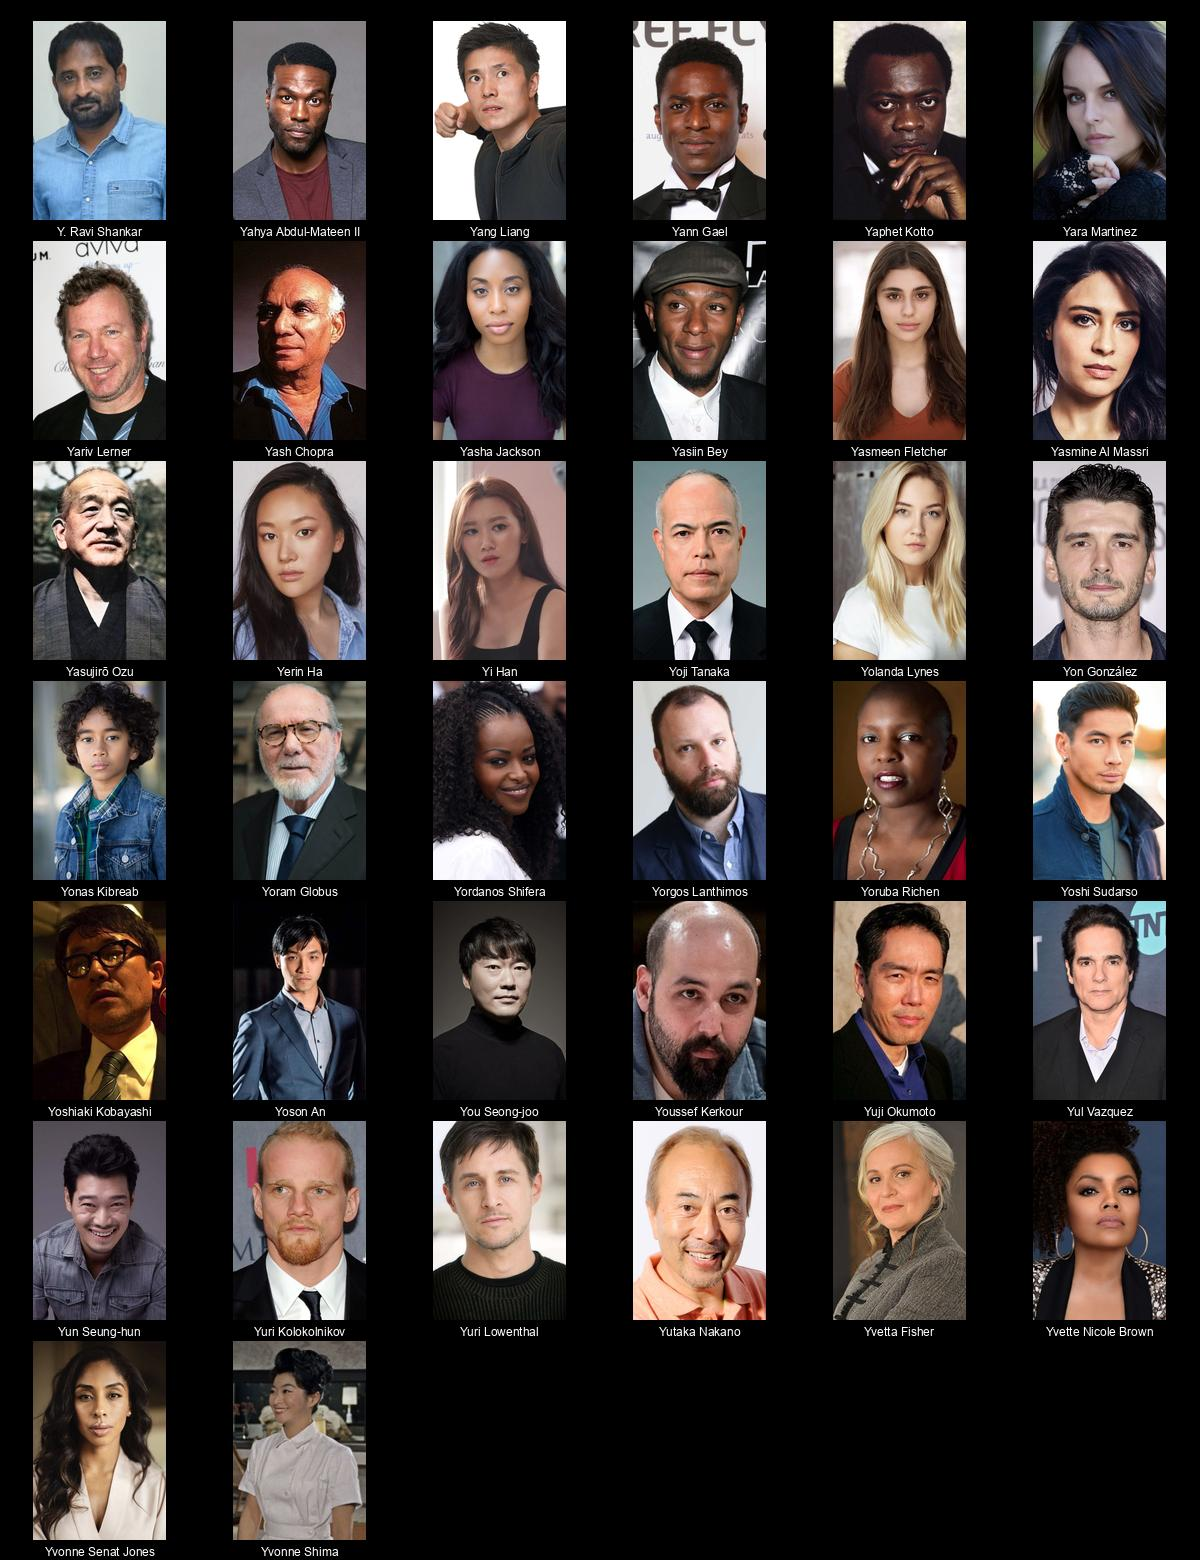
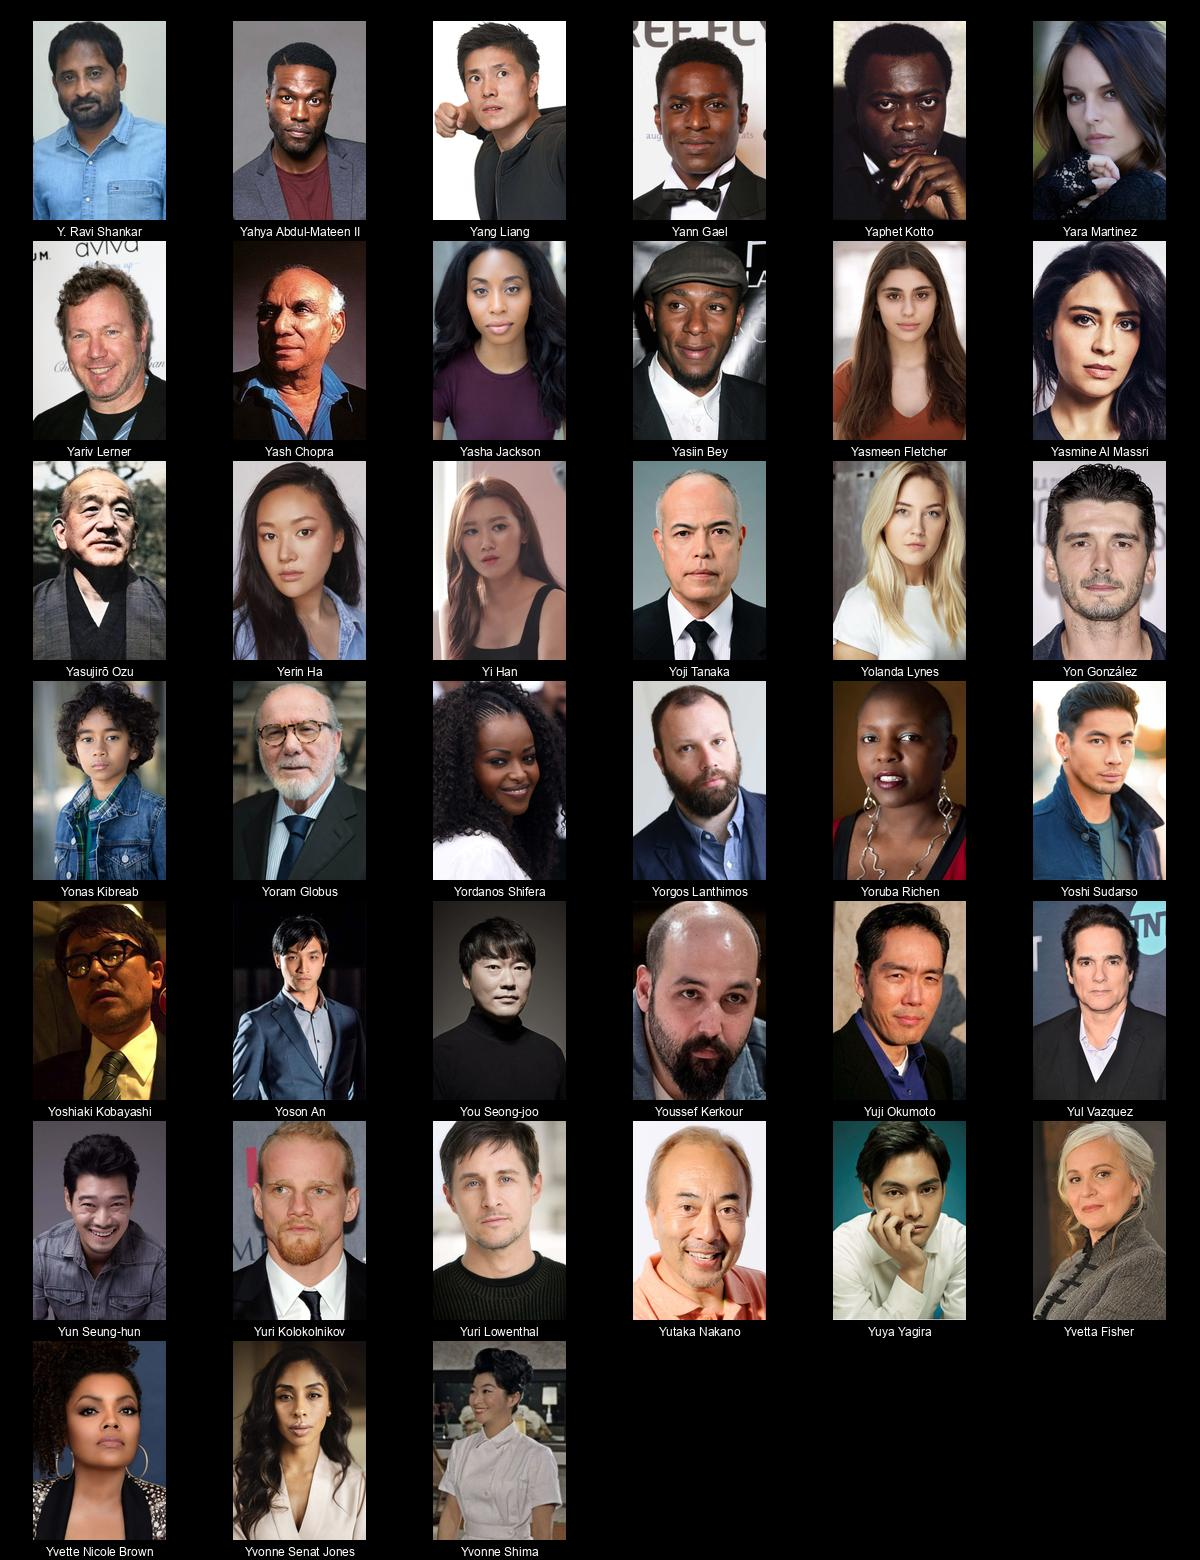
Readme Update

diff --git a/README.md b/README.md
@@ -1,4 +1,4 @@
-# Plex Meta Manager People - Original (8610 Images)
+# Plex Meta Manager People - Original (8612 Images)
 
 <details><summary><a href="'">' (1 Images)</a></summary>
 
@@ -4491,7 +4491,7 @@
 * [Jürgen Prochnow](https://raw.githubusercontent.com/meisnate12/Plex-Meta-Manager-People/master/J/Images/J%C3%BCrgen%20Prochnow.jpg)
 * [Jūzō Itami](https://raw.githubusercontent.com/meisnate12/Plex-Meta-Manager-People/master/J/Images/J%C5%ABz%C5%8D%20Itami.jpg)
 </details>
-<details><summary><a href="K">K (382 Images)</a></summary>
+<details><summary><a href="K">K (383 Images)</a></summary>
 
 * [K Raghavendra Rao](https://raw.githubusercontent.com/meisnate12/Plex-Meta-Manager-People/master/K/Images/K%20Raghavendra%20Rao.jpg)
 * [K.J. Apa](https://raw.githubusercontent.com/meisnate12/Plex-Meta-Manager-People/master/K/Images/K.J.%20Apa.jpg)
@@ -4813,6 +4813,7 @@
 * [Kodi Smit-McPhee](https://raw.githubusercontent.com/meisnate12/Plex-Meta-Manager-People/master/K/Images/Kodi%20Smit-McPhee.jpg)
 * [Kofi Yiadom](https://raw.githubusercontent.com/meisnate12/Plex-Meta-Manager-People/master/K/Images/Kofi%20Yiadom.jpg)
 * [Koichi Yamadera](https://raw.githubusercontent.com/meisnate12/Plex-Meta-Manager-People/master/K/Images/Koichi%20Yamadera.jpg)
+* [Koki Mitani](https://raw.githubusercontent.com/meisnate12/Plex-Meta-Manager-People/master/K/Images/Koki%20Mitani.jpg)
 * [Kola Bokinni](https://raw.githubusercontent.com/meisnate12/Plex-Meta-Manager-People/master/K/Images/Kola%20Bokinni.jpg)
 * [Kolby Mitchell](https://raw.githubusercontent.com/meisnate12/Plex-Meta-Manager-People/master/K/Images/Kolby%20Mitchell.jpg)
 * [Koratala Siva](https://raw.githubusercontent.com/meisnate12/Plex-Meta-Manager-People/master/K/Images/Koratala%20Siva.jpg)
@@ -8593,7 +8594,7 @@
 * [Xochitl Gomez](https://raw.githubusercontent.com/meisnate12/Plex-Meta-Manager-People/master/X/Images/Xochitl%20Gomez.jpg)
 * [Xolo Mariduena](https://raw.githubusercontent.com/meisnate12/Plex-Meta-Manager-People/master/X/Images/Xolo%20Mariduena.jpg)
 </details>
-<details><summary><a href="Y">Y (38 Images)</a></summary>
+<details><summary><a href="Y">Y (39 Images)</a></summary>
 
 * [Y. Ravi Shankar](https://raw.githubusercontent.com/meisnate12/Plex-Meta-Manager-People/master/Y/Images/Y.%20Ravi%20Shankar.jpg)
 * [Yahya Abdul-Mateen II](https://raw.githubusercontent.com/meisnate12/Plex-Meta-Manager-People/master/Y/Images/Yahya%20Abdul-Mateen%20II.jpg)
@@ -8629,6 +8630,7 @@
 * [Yuri Kolokolnikov](https://raw.githubusercontent.com/meisnate12/Plex-Meta-Manager-People/master/Y/Images/Yuri%20Kolokolnikov.jpg)
 * [Yuri Lowenthal](https://raw.githubusercontent.com/meisnate12/Plex-Meta-Manager-People/master/Y/Images/Yuri%20Lowenthal.jpg)
 * [Yutaka Nakano](https://raw.githubusercontent.com/meisnate12/Plex-Meta-Manager-People/master/Y/Images/Yutaka%20Nakano.jpg)
+* [Yuya Yagira](https://raw.githubusercontent.com/meisnate12/Plex-Meta-Manager-People/master/Y/Images/Yuya%20Yagira.jpg)
 * [Yvetta Fisher](https://raw.githubusercontent.com/meisnate12/Plex-Meta-Manager-People/master/Y/Images/Yvetta%20Fisher.jpg)
 * [Yvette Nicole Brown](https://raw.githubusercontent.com/meisnate12/Plex-Meta-Manager-People/master/Y/Images/Yvette%20Nicole%20Brown.jpg)
 * [Yvonne Senat Jones](https://raw.githubusercontent.com/meisnate12/Plex-Meta-Manager-People/master/Y/Images/Yvonne%20Senat%20Jones.jpg)

diff --git a/Y/README.md b/Y/README.md
@@ -1,4 +1,4 @@
-# Plex Meta Manager People - Original - Y (38 Images)
+# Plex Meta Manager People - Original - Y (39 Images)
 ![Grid](grid.jpg)
 
 * [Y. Ravi Shankar](https://raw.githubusercontent.com/meisnate12/Plex-Meta-Manager-People/master/Y/Images/Y.%20Ravi%20Shankar.jpg)
@@ -35,6 +35,7 @@
 * [Yuri Kolokolnikov](https://raw.githubusercontent.com/meisnate12/Plex-Meta-Manager-People/master/Y/Images/Yuri%20Kolokolnikov.jpg)
 * [Yuri Lowenthal](https://raw.githubusercontent.com/meisnate12/Plex-Meta-Manager-People/master/Y/Images/Yuri%20Lowenthal.jpg)
 * [Yutaka Nakano](https://raw.githubusercontent.com/meisnate12/Plex-Meta-Manager-People/master/Y/Images/Yutaka%20Nakano.jpg)
+* [Yuya Yagira](https://raw.githubusercontent.com/meisnate12/Plex-Meta-Manager-People/master/Y/Images/Yuya%20Yagira.jpg)
 * [Yvetta Fisher](https://raw.githubusercontent.com/meisnate12/Plex-Meta-Manager-People/master/Y/Images/Yvetta%20Fisher.jpg)
 * [Yvette Nicole Brown](https://raw.githubusercontent.com/meisnate12/Plex-Meta-Manager-People/master/Y/Images/Yvette%20Nicole%20Brown.jpg)
 * [Yvonne Senat Jones](https://raw.githubusercontent.com/meisnate12/Plex-Meta-Manager-People/master/Y/Images/Yvonne%20Senat%20Jones.jpg)

diff --git a/K/README.md b/K/README.md
@@ -1,4 +1,4 @@
-# Plex Meta Manager People - Original - K (382 Images)
+# Plex Meta Manager People - Original - K (383 Images)
 ![Grid](grid.jpg)
 
 * [K Raghavendra Rao](https://raw.githubusercontent.com/meisnate12/Plex-Meta-Manager-People/master/K/Images/K%20Raghavendra%20Rao.jpg)
@@ -321,6 +321,7 @@
 * [Kodi Smit-McPhee](https://raw.githubusercontent.com/meisnate12/Plex-Meta-Manager-People/master/K/Images/Kodi%20Smit-McPhee.jpg)
 * [Kofi Yiadom](https://raw.githubusercontent.com/meisnate12/Plex-Meta-Manager-People/master/K/Images/Kofi%20Yiadom.jpg)
 * [Koichi Yamadera](https://raw.githubusercontent.com/meisnate12/Plex-Meta-Manager-People/master/K/Images/Koichi%20Yamadera.jpg)
+* [Koki Mitani](https://raw.githubusercontent.com/meisnate12/Plex-Meta-Manager-People/master/K/Images/Koki%20Mitani.jpg)
 * [Kola Bokinni](https://raw.githubusercontent.com/meisnate12/Plex-Meta-Manager-People/master/K/Images/Kola%20Bokinni.jpg)
 * [Kolby Mitchell](https://raw.githubusercontent.com/meisnate12/Plex-Meta-Manager-People/master/K/Images/Kolby%20Mitchell.jpg)
 * [Koratala Siva](https://raw.githubusercontent.com/meisnate12/Plex-Meta-Manager-People/master/K/Images/Koratala%20Siva.jpg)
